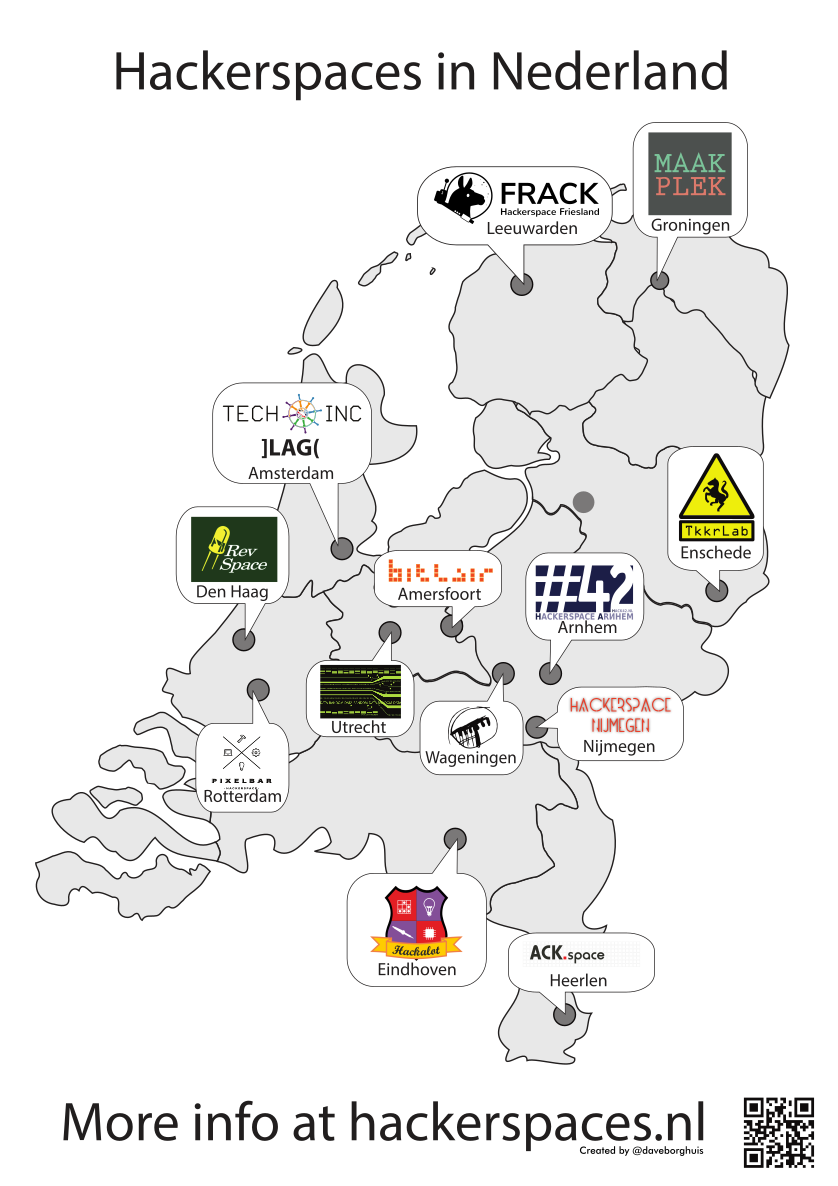
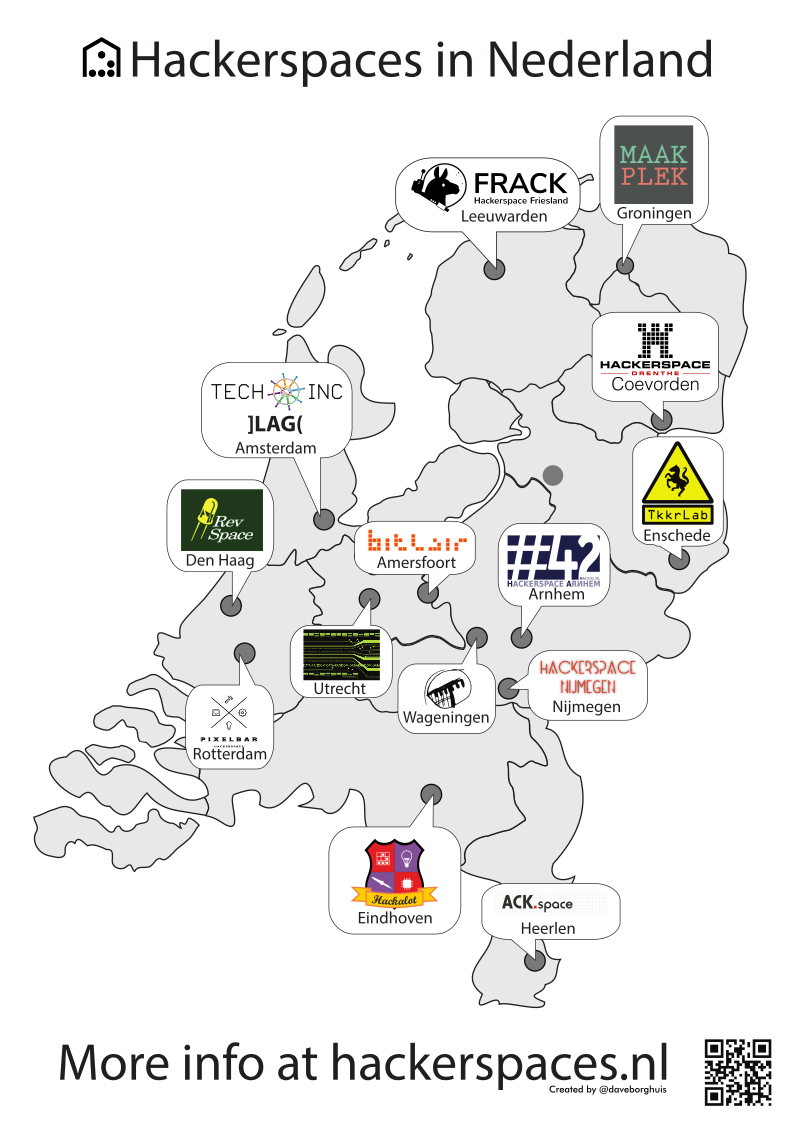
Nieuwe kaart NL (hoi Coevorden!)

diff --git a/content/_index.md b/content/_index.md
@@ -44,8 +44,9 @@ Als je op de hoogte wil blijven van onze activiteiten schrijf je dan in op onze 
 <br />
 Woon je niet in Enschede, maar lijkt een hackerspace je wel wat, kijk dan op [hackerspaces.nl] (https://hackerspaces.nl)
 <br />
-<br />
-![hackerspacekaart, Nederland](/images/Hackerspaces_nederland_kaart.png)  
+<br /> 
+<img src="/images/Hackerspaces_nederland_kaart.png" alt="kaart hackerspaces in Nederland" width="400px" style="margin-left: auto;
+  margin-right: auto; display: block;">
 
 Een kleine greep uit dit overzicht:
 
